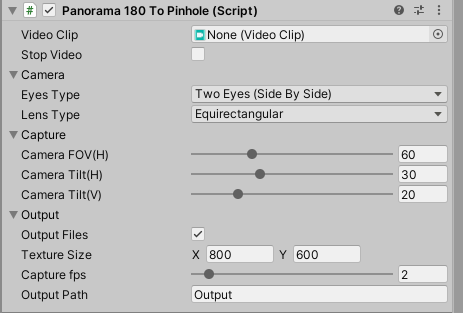
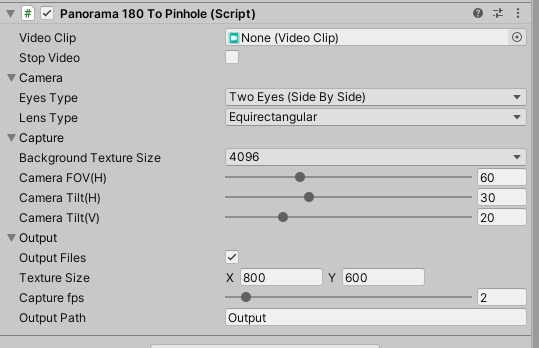
Update readme.

Changed region(s): [[0.0, 0.0, 0.9978, 1.0], [0.4233, 0.4313, 0.4838, 0.4601]]

diff --git a/readme.md b/readme.md
@@ -3,11 +3,14 @@
 Panorama180 To Pinholeは、パノラマ180のSideBySide、またはFishEyeの動画から1フレーム5枚のPinholeとしてのキャプチャを行いファイル出力するアセットです。     
 パノラマ画像は魚眼のゆがみがありますが、これをゆがみのない画像にして出力します。     
 
-元の動画は以下のようなEquirectangularで180度分を使用した、ステレオの配置です。      
+元の動画は以下のようなEquirectangularで180度分を使用した、ステレオの配置を使用できます。      
 ![panoramaToPinhole_01.jpg](./images/panoramaToPinhole_01.jpg)     
 この左側の画像が使用されます。     
 
-また、単眼の指定にも対応しています。      
+また、単眼の指定や魚眼の指定にも対応しています。      
+以下は単眼 + 魚眼の例です。     
+![panoramaToPinhole_10.jpg](./images/panoramaToPinhole_10.jpg)     
+
 
 ## 開発環境
 
@@ -69,6 +72,7 @@ Panorama180ToPinholeコンポーネントのパラメータの説明です。
 |Stop Video|再生中の動画を一時停止します。|     
 |Camera - Eye Type|Single Eye : 動画は単眼<br>Two Sides(Side By Side) : 動画はステレオ（Side By Side）|     
 |Camera - Lens Type|EquirectangularまたはFish Eyeを選択。|     
+|Capture - Background Texture Size|半球に投影する背景のテクスチャサイズを指定|     
 |Capture - Camera FOV(H)|Pinhole画像を作成するカメラの垂直視野角度（度数）|     
 |Capture - Camera Tilt(H)|カメラの視線方向からの水平の向きのずれ（度数）<br>![panoramaToPinhole_09.png](./images/panoramaToPinhole_09.png)<br>左右のカメラである"camera_1"、"camera_2"はY軸中心で指定の角度分傾きます。|     
 |Capture - Camera Tilt(V)|カメラの視線方向からの垂直の向きのずれ（度数）<br>上下のカメラである"camera_3"、"camera_4"はX軸中心で指定の角度分傾きます。|     
